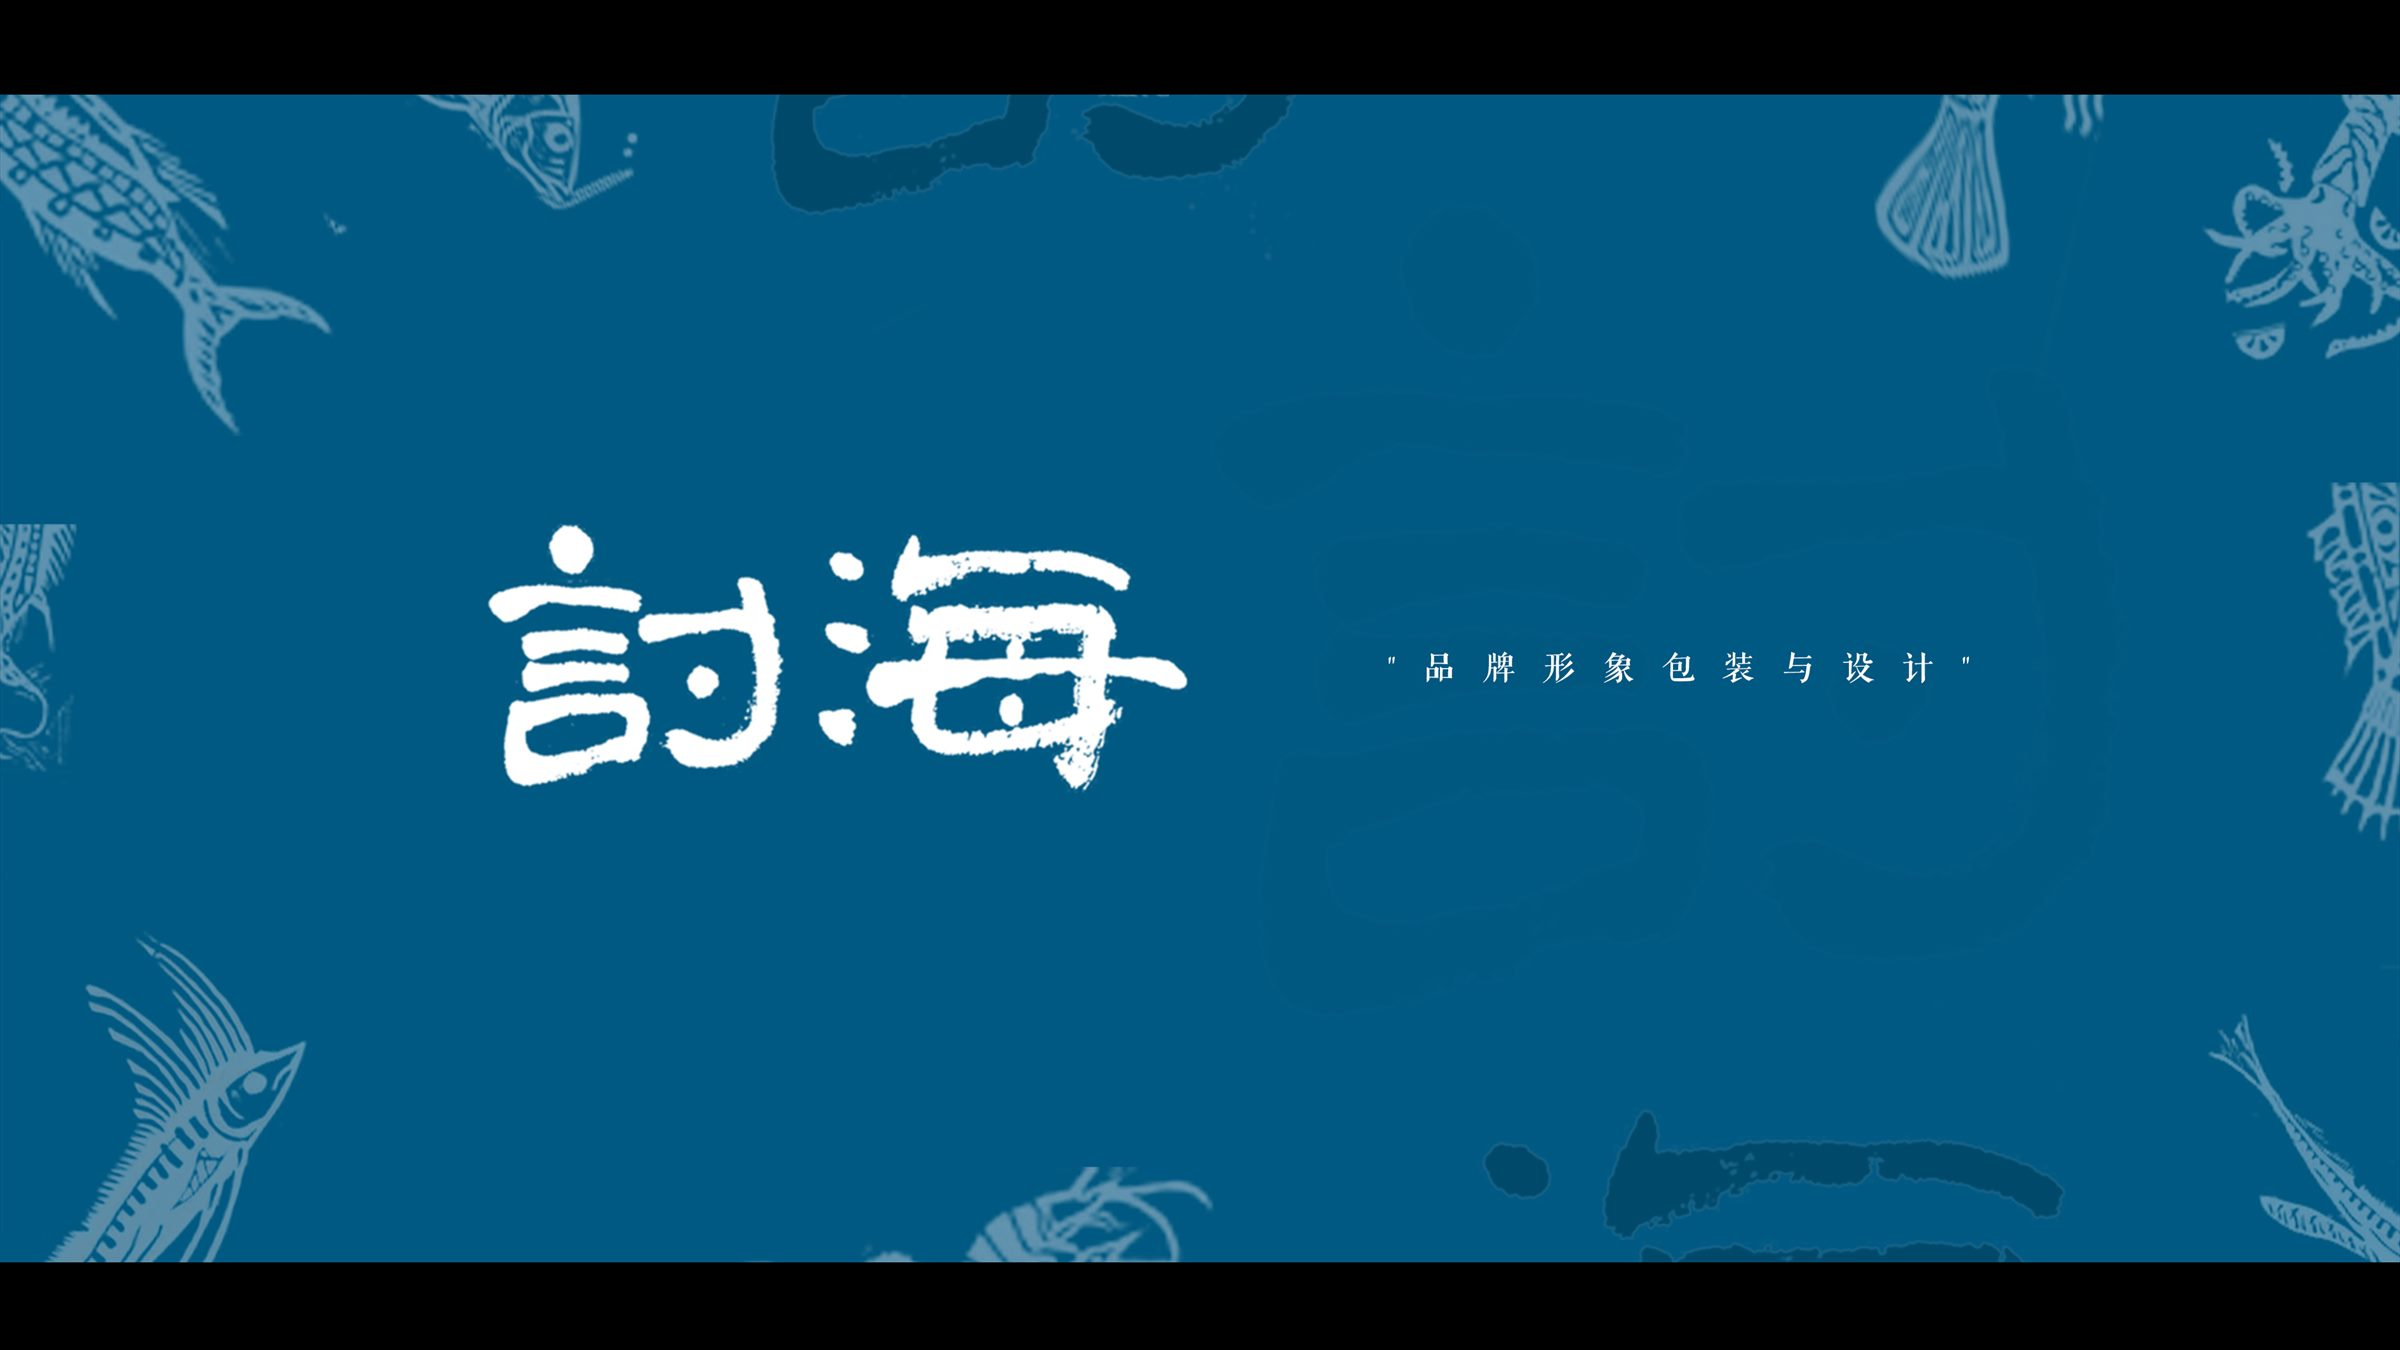
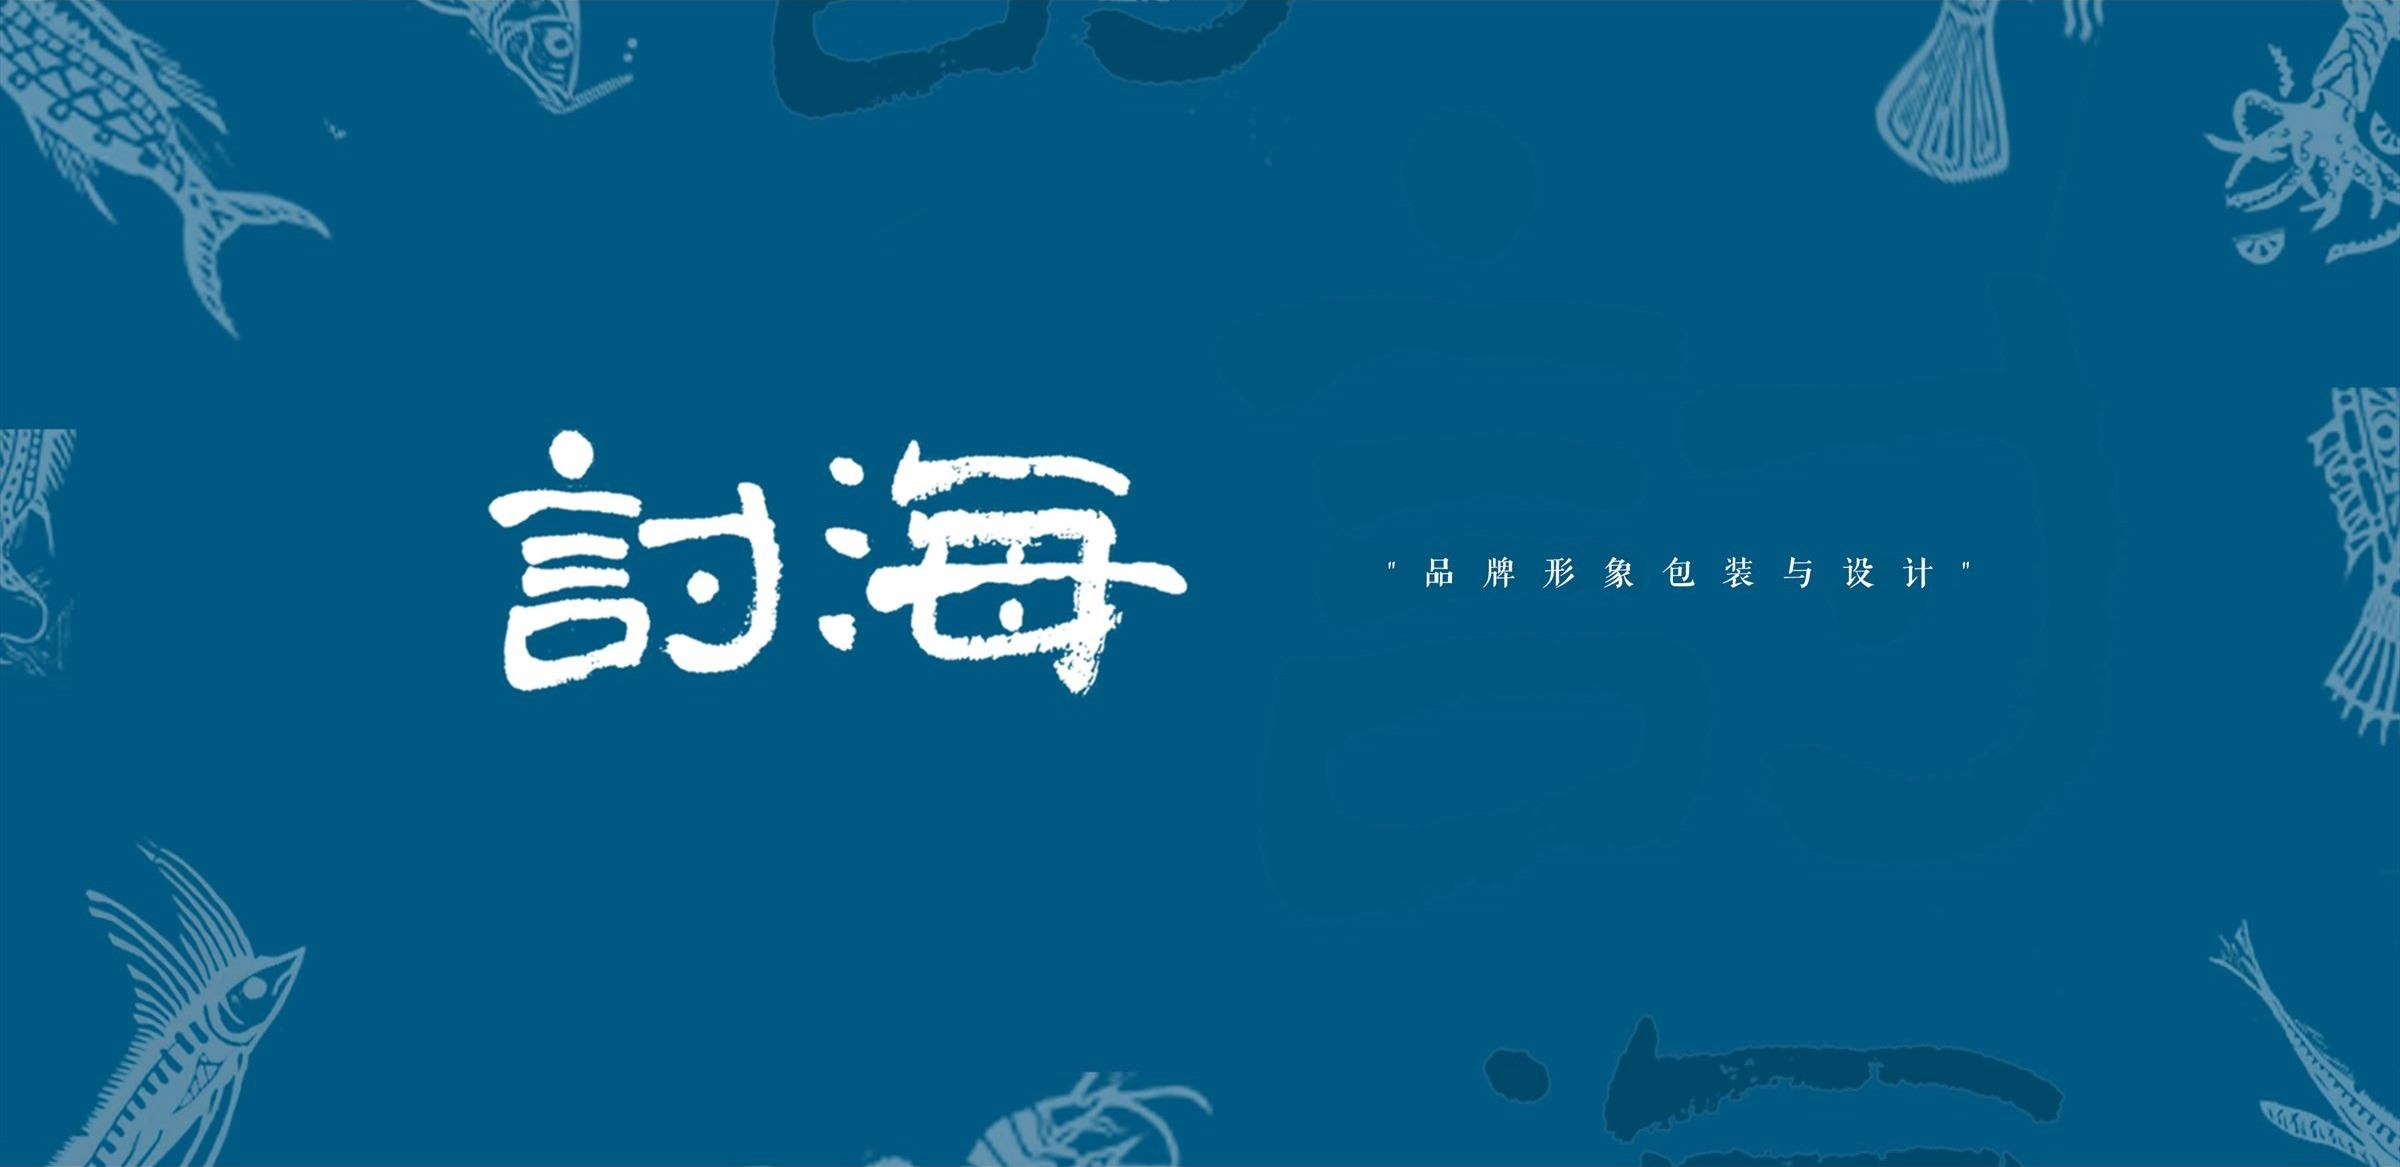
Crop the dark edges off the preview images.

diff --git a/styles.css b/styles.css
@@ -452,8 +452,10 @@ img { display: block; }
 .film__frame video {
   width: 100%;
   height: 100%;
-  object-fit: contain;
+  object-fit: cover;
   background: #111;
+  transform: scale(1.03);
+  transform-origin: center center;
 }
 .film__play {
   position: absolute;
@@ -501,7 +503,7 @@ img { display: block; }
   transition: opacity 0.75s ease, transform 0.9s cubic-bezier(0.23, 1, 0.32, 1);
 }
 .frame-hit img.is-on,
-.frame-hit video.is-on { opacity: 1; transform: none; z-index: 1; }
+.frame-hit video.is-on { opacity: 1; transform: scale(1.015); z-index: 1; }
 .frame-hit img.is-leave,
 .frame-hit video.is-leave { opacity: 0; transform: translate3d(-6%, 0, 0); }
 .frame-hit video[hidden] { display: none; }

diff --git a/main.js b/main.js
@@ -417,7 +417,7 @@ function renderRail() {
         .map(
           (item) => `<button class="rail-card" type="button" data-project="${item.id}" aria-label="${item.title} ${item.titleEn}">
         <span class="rail-card__fit">
-          <img src="${coverSrc(item)}" alt="${item.title} ${item.titleEn}" style="--crop:${item.id === "sea" || item.id === "zong" ? "1.18" : "1"}" />
+          <img src="${coverSrc(item)}" alt="${item.title} ${item.titleEn}" />
           <span class="rail-card__side"><span class="rail-card__vertical">${item.title}</span></span>
           <span class="rail-card__face">
             <span class="rail-card__title">${item.title}<br />${item.subtitle}</span>
